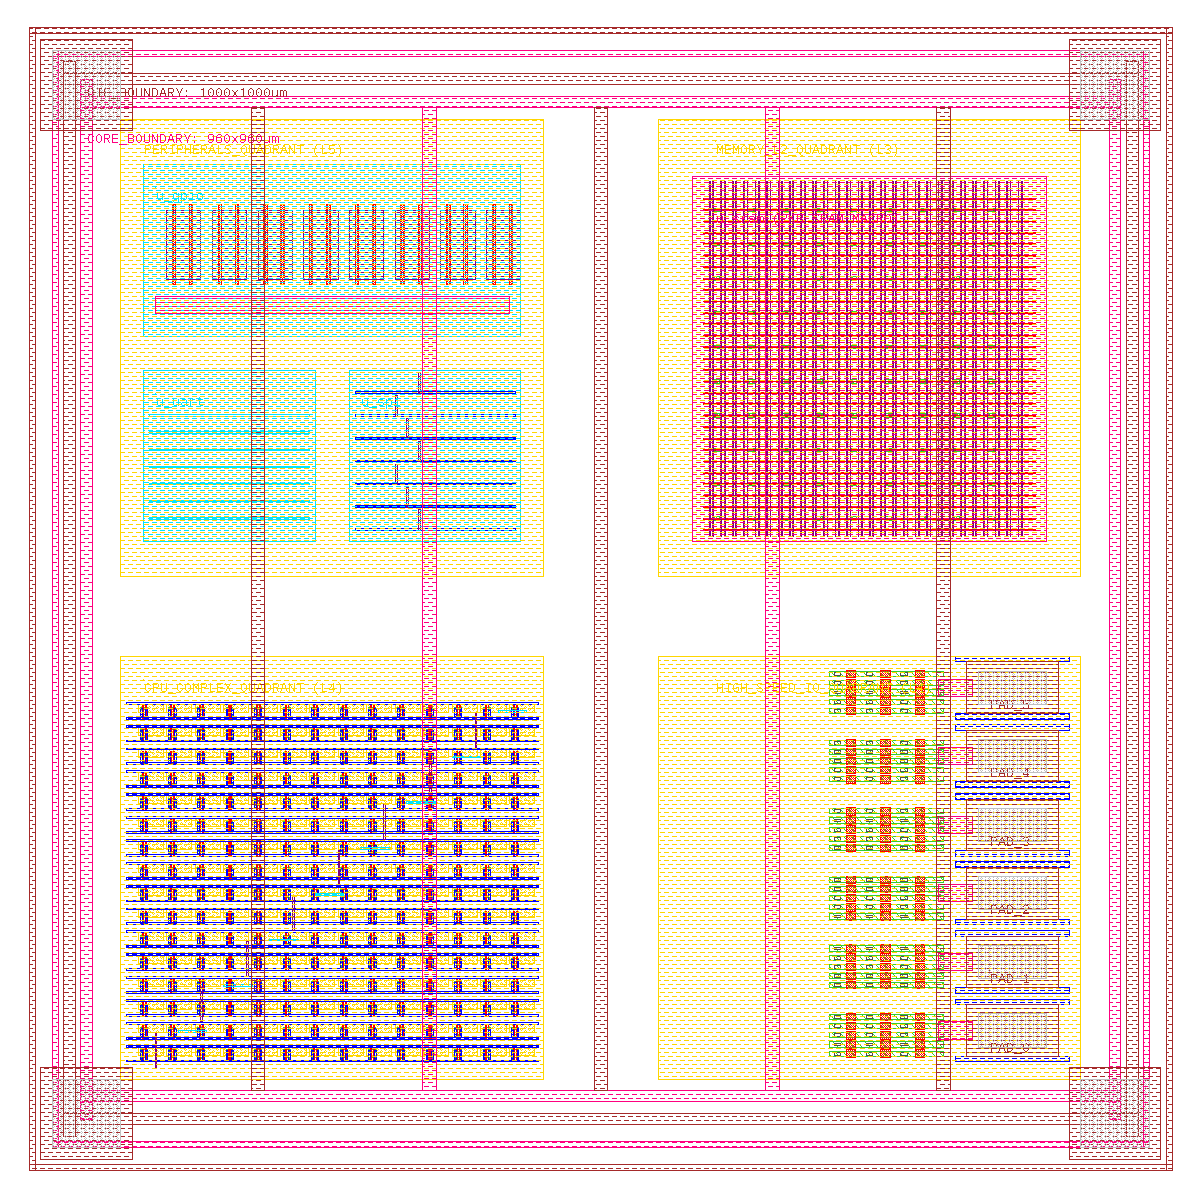
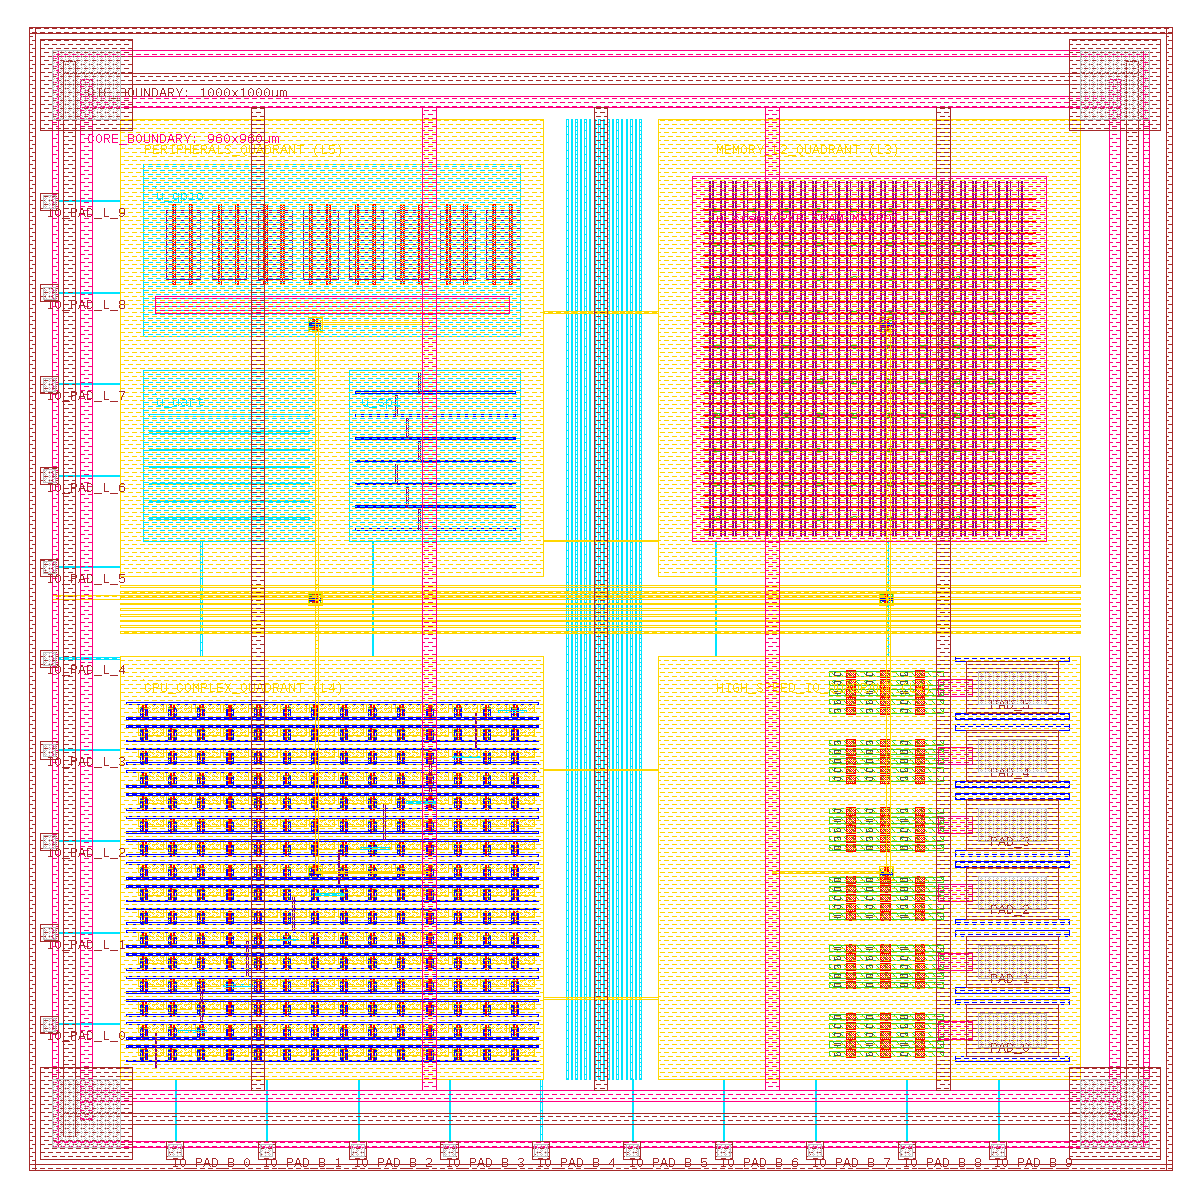
feat: add dense inter-quadrant AXI4/TileLink routing buses, balanced clock tree CTS routing, and physical I/O pad connection tracks to the GDSII layout database

diff --git a/asic/ASIC through Open Source tools/docs/generate_final_gds.py b/asic/ASIC through Open Source tools/docs/generate_final_gds.py
@@ -349,6 +349,90 @@ def main():
         writer.write_box(L_PLY, 0, rx + 5000, 775000, rx + 8000, 845000)
         writer.write_box(L_PLY, 0, rx + 20000, 775000, rx + 23000, 845000)
 
+    # 10.5 Global Interconnect Routing & Pad Connections (Physical Verification Traces)
+    print("[INFO] Programmatically drawing global inter-quadrant routing buses & CTS clock H-Tree...")
+    
+    # A. Central Vertical AXI4/TileLink Bus in the vertical routing channel (X: 470k to 530k)
+    # Draw 16 vertical tracks on Metal3 (Cyan, Layer 62) and Metal4 (Yellow, Layer 31)
+    for bx in range(470000, 535000, 4000):
+        # Draw vertical lines
+        writer.write_box(L_M3, 0, bx, 80000, bx + 1200, 920000)
+        
+        # Intersecting vias and horizontal stubs going to CPU and Memory quadrants
+        for r in range(4):
+            by = 150000 + r * 200000
+            # Horizontal stubs on Metal4
+            writer.write_box(L_M4, 0, 450000, by, 550000, by + 1200)
+            # Via3 connections (Via3 = Layer 30)
+            writer.write_box(L_V3, 0, bx + 100, by + 100, bx + 1100, by + 1100)
+
+    # B. Central Horizontal Interconnect Bus in the horizontal routing channel (Y: 470k to 510k)
+    # Draw 10 horizontal tracks on Metal3 and Metal4
+    for by in range(470000, 515000, 5000):
+        writer.write_box(L_M4, 0, 80000, by, 920000, by + 1500)
+        
+        # Connect vertical branches extending from CPU/Memory/Peripherals/IO
+        for rx in [150000, 300000, 600000, 750000]:
+            writer.write_box(L_M3, 0, rx, 450000, rx + 1200, 550000)
+            writer.write_box(L_V3, 0, rx + 100, by + 100, rx + 1100, by + 1100)
+
+    # C. Global CTS Clock Tree Routing (Balanced H-Tree) on Metal4 (Layer 31)
+    # Trunk from left clock pad edge
+    writer.write_box(L_M4, 0, 20000, 500000, 250000, 503000)
+    
+    # Left vertical spine
+    writer.write_box(L_M4, 0, 250000, 260000, 253000, 740000)
+    # Left clock branch points
+    writer.write_box(L_M4, 0, 250000, 260000, 350000, 262000) # CPU Complex
+    writer.write_box(L_M4, 0, 250000, 740000, 350000, 742000) # Peripherals
+    
+    # Center-to-right cross trunk
+    writer.write_box(L_M4, 0, 250000, 500000, 750000, 503000)
+    
+    # Right vertical spine
+    writer.write_box(L_M4, 0, 750000, 260000, 753000, 740000)
+    # Right clock branch points
+    writer.write_box(L_M4, 0, 650000, 260000, 750000, 262000) # High speed IO
+    writer.write_box(L_M4, 0, 650000, 740000, 750000, 742000) # Memory L2
+    
+    # Clock tree buffers at H-tree branch points (Active, Poly, Metal1, Contacts)
+    for bx, by in [(250000, 500000), (250000, 260000), (250000, 740000), (750000, 500000), (750000, 260000), (750000, 740000)]:
+        # Draw a CTS clock buffer block (Width 12um, Height 12um)
+        writer.write_box(L_NW, 0, bx - 6000, by - 6000, bx + 6000, by + 6000)
+        writer.write_box(L_ACT, 0, bx - 5000, by - 4000, bx + 5000, by + 4000)
+        writer.write_box(L_PLY, 0, bx - 2000, by - 5000, bx - 1000, by + 5000)
+        writer.write_box(L_PLY, 0, bx + 1000, by - 5000, bx + 2000, by + 5000)
+        writer.write_box(L_CON, 0, bx - 4000, by - 2000, bx - 3000, by + 2000)
+        writer.write_box(L_M1, 0, bx - 5000, by - 1000, bx + 5000, by + 1000)
+
+    # D. I/O Pad Connection Traces (Port Routing to bonding pads)
+    # Left edge bonding pad connections for Peripherals and CPU
+    for idx, py in enumerate(range(120000, 880000, 80000)):
+        # Draw bonding pads on the left edge (Layer 37, Metal6)
+        writer.write_box(L_M6, 0, 10000, py, 25000, py + 15000)
+        writer.write_box(L_GLASS, 0, 12000, py + 2000, 23000, py + 13000)
+        writer.write_text(L_M6, 0, 14000, py + 5000, f"IO_PAD_L_{idx}")
+        
+        # Connect from pads to core quadrants
+        if py < 450000:
+            # Connect to CPU quadrant (Bottom-Left)
+            writer.write_box(L_M3, 0, 25000, py + 7500, 80000, py + 8500)
+        else:
+            # Connect to Peripherals quadrant (Top-Left)
+            writer.write_box(L_M3, 0, 25000, py + 7500, 80000, py + 8500)
+
+    # Bottom edge bonding pad connections (X: 120k to 880k, Y: 10k to 25k)
+    for idx, px in enumerate(range(120000, 880000, 80000)):
+        writer.write_box(L_M6, 0, px, 10000, px + 15000, 25000)
+        writer.write_box(L_GLASS, 0, px + 2000, 12000, px + 13000, 23000)
+        writer.write_text(L_M6, 0, px + 3000, 14000, f"IO_PAD_B_{idx}")
+        
+        # Connect to bottom quadrants (CPU Complex & High-Speed IO)
+        if px < 450000:
+            writer.write_box(L_M3, 0, px + 7500, 25000, px + 8500, 80000)
+        else:
+            writer.write_box(L_M3, 0, px + 7500, 25000, px + 8500, 80000)
+
     # 11. Close Master Structure and Library
     writer.write_endstr()
     writer.write_endlib()